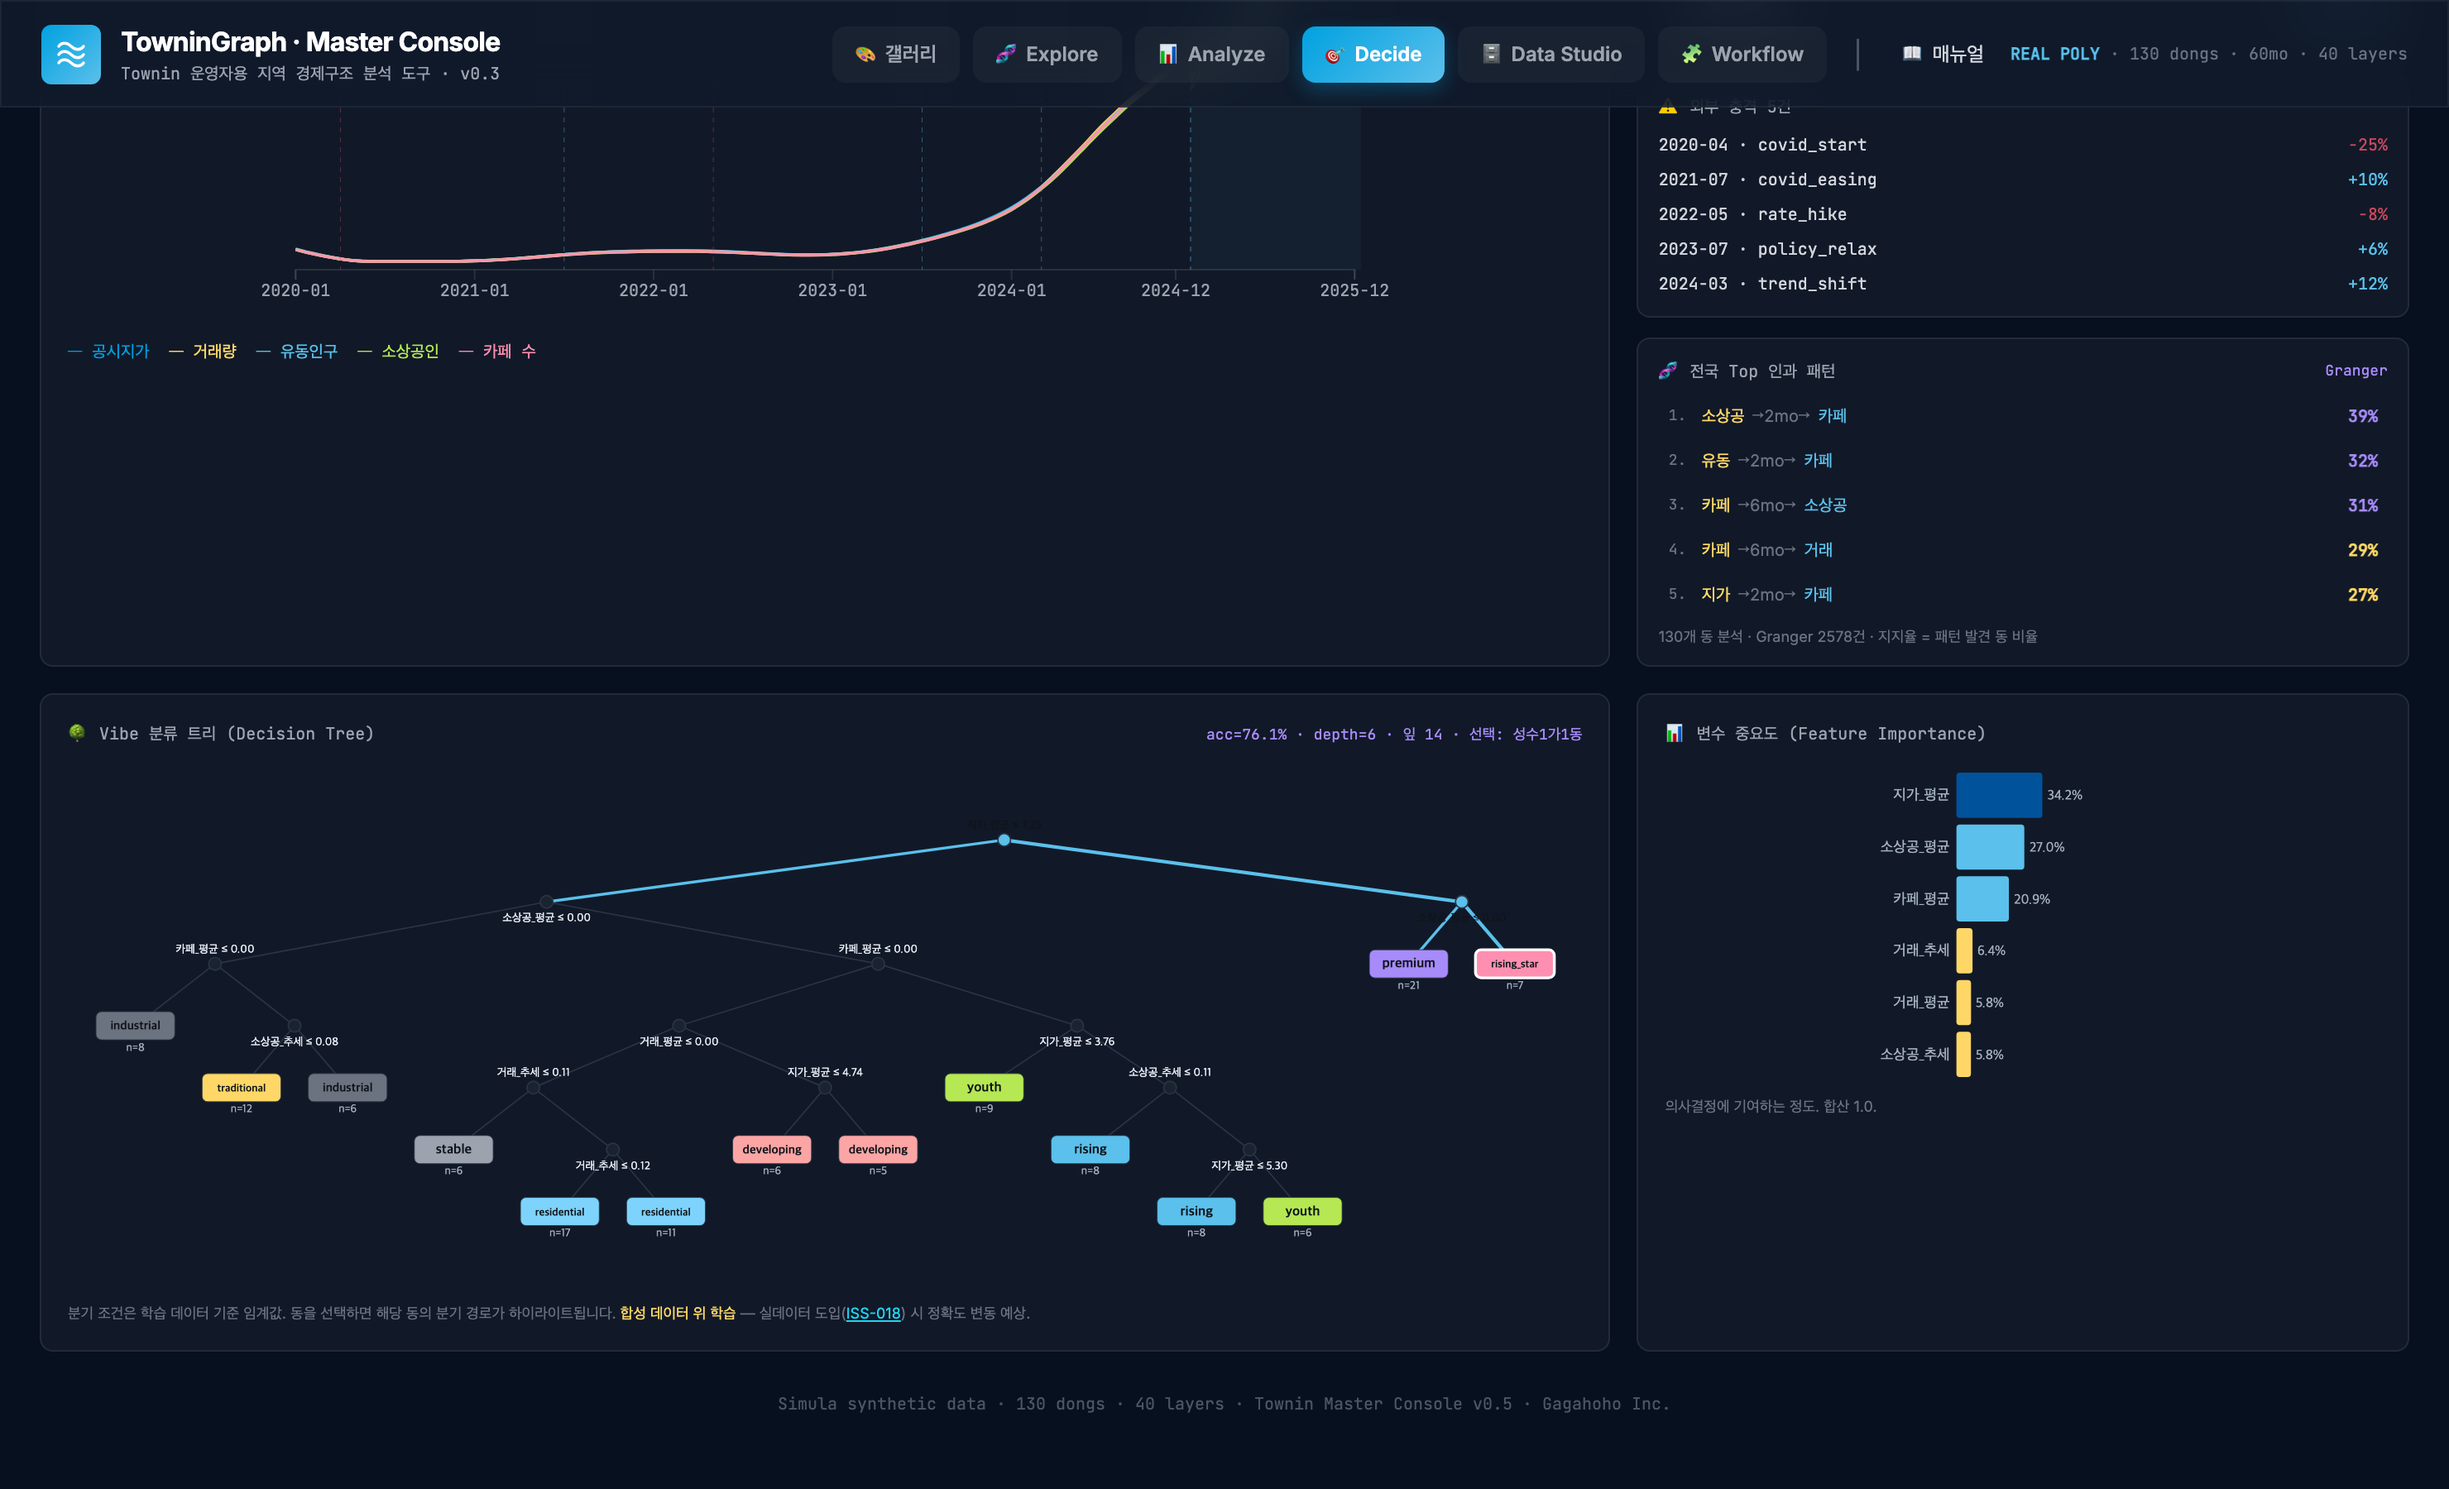
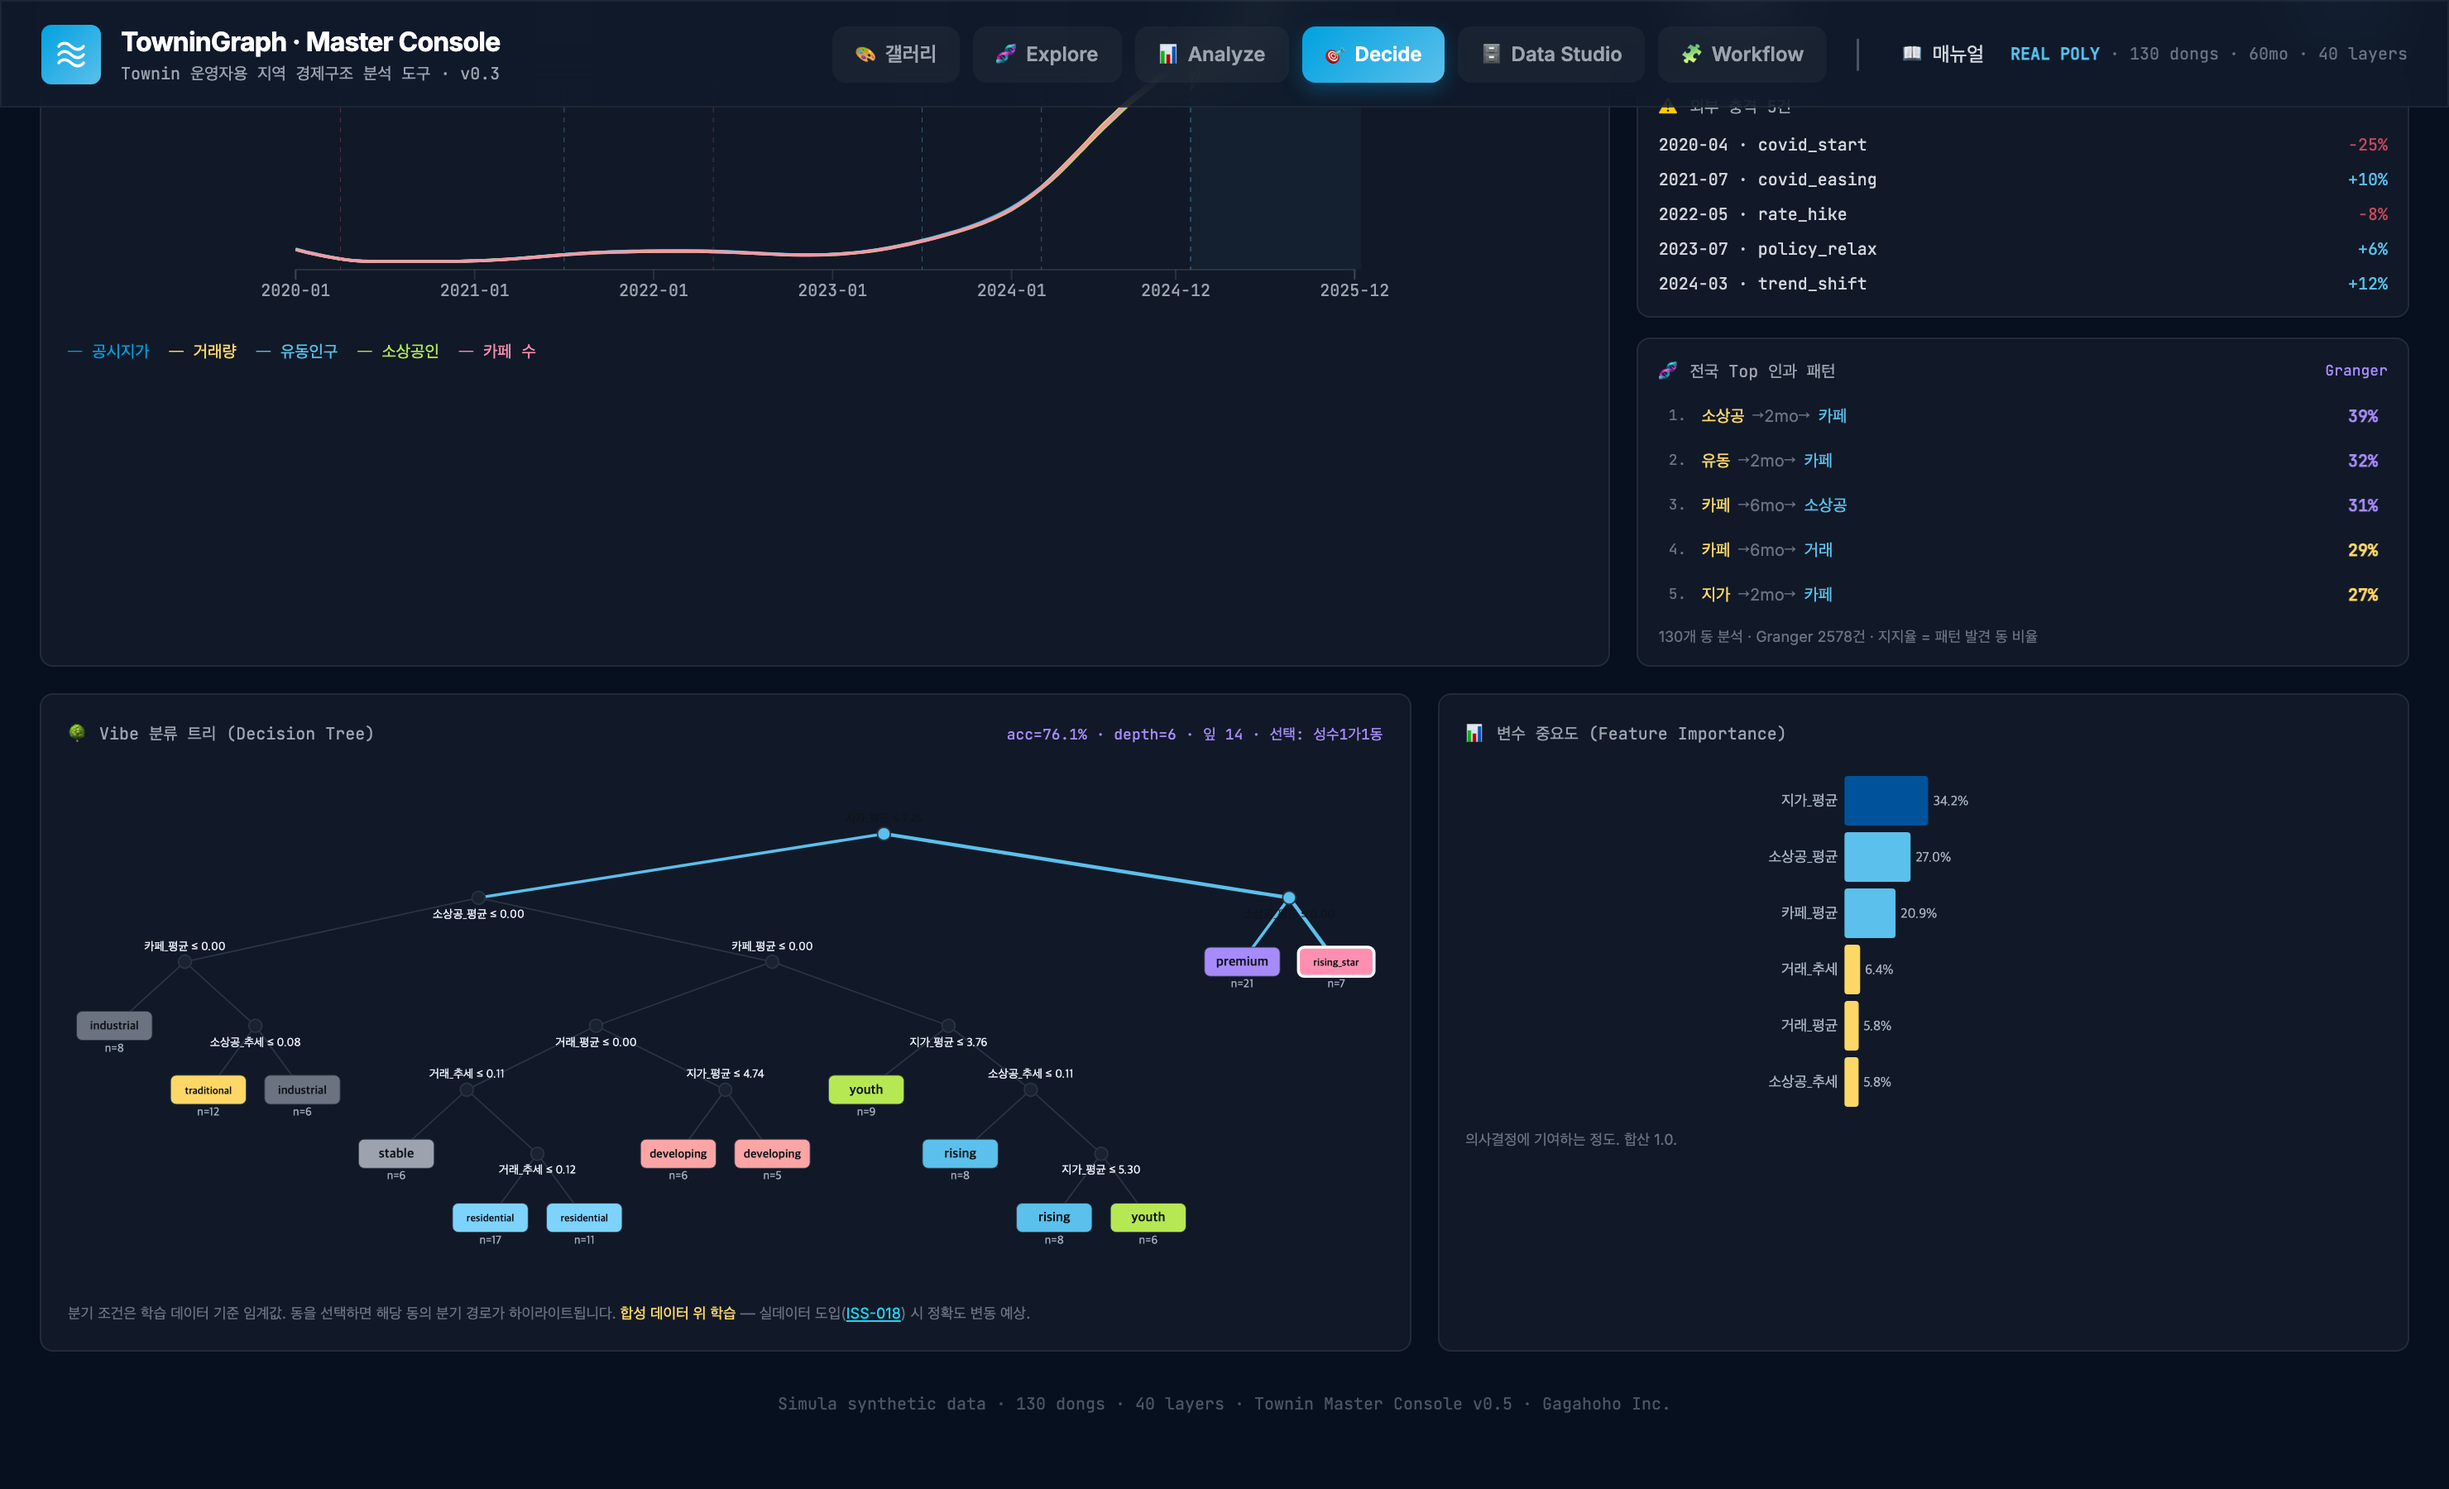
fix(decide): 트리 좌측 블록 폭 절감 — 가독성 향상 (사용자 보고)
사용자 스크린샷 보고: col-span-8(트리)이 넓어 노드들이 흩어져 보임
- index.html: 트리 col-span 8→7, 변수중요도 5→4 + viewBox 280×220 (한글 여유)
- app.js _treeLayout: LEAF_W 56→52, LEAF_GAP 14→8, padX 48→32
- 잎 폰트 임계값: 11자 7px / 8자 8px / 짧은 9px (LEAF_W 52에 맞춤)
- 변수중요도 padL 80→92, padR 8→40 (% 라벨 잘림 방지)
- overflow-x:auto + preserveAspectRatio="xMidYMid meet" — 큰 트리도 안전

ISS-021 (P3 DESIGN_FIX, user_reported) → COMPLETED
verify_all 9/9 유지

diff --git a/app.js b/app.js
@@ -1438,9 +1438,9 @@ function renderDecisionTree() {
   const maxDepth = Math.max(...allNodes.map(n=>n.depth));
   const leafNodes = allNodes.filter(n=>n.leaf);
   const nLeaves = leafNodes.length;
-  // 잎 박스 폭 보장: 최소 75px/잎 → viewBox 동적 확장 (겹침 방지)
-  const LEAF_W = 56, LEAF_GAP = 14;
-  const padX = 48, padY = 28;
+  // 잎 박스 폭 보장: 최소 60px/잎 → viewBox 동적 확장 (겹침 방지) + 좌측 블록 폭 절감
+  const LEAF_W = 52, LEAF_GAP = 8;
+  const padX = 32, padY = 28;
   const W = Math.max(720, padX*2 + nLeaves * (LEAF_W + LEAF_GAP));
   const H = 320;
   const innerW = W - padX*2, innerH = H - padY*2;
@@ -1474,7 +1474,7 @@ function renderDecisionTree() {
       const color = VIBE_COLOR[n.class] || '#9CA3AF';
       // 클래스명 길이로 폰트 사이즈 자동 조정 (rising_star 11자도 LEAF_W 56px에 들어가도록)
       const labelLen = String(n.class || '').length;
-      const fz = labelLen >= 11 ? 7.5 : labelLen >= 8 ? 8.5 : 9.5;
+      const fz = labelLen >= 11 ? 7 : labelLen >= 8 ? 8 : 9;
       s += `<rect x="${n.px - LEAF_W/2}" y="${n.py-10}" width="${LEAF_W}" height="20" rx="4" fill="${color}" stroke="${isOn?'#fff':'#2A3445'}" stroke-width="${isOn?2:0.5}"/>`;
       s += `<text x="${n.px}" y="${n.py+3}" text-anchor="middle" fill="#0F1419" font-size="${fz}" font-family="ui-sans-serif" font-weight="700">${n.class}</text>`;
       s += `<text x="${n.px}" y="${n.py+18}" text-anchor="middle" fill="#A4B0C0" font-size="8" font-family="ui-monospace">n=${n.samples}</text>`;
@@ -1504,8 +1504,8 @@ function renderFeatureImportance() {
     return;
   }
   const items = TREE_MODEL.feature_importance.filter(f => f.importance > 0).slice(0, 8);
-  const W = 240, H = 200;
-  const padL = 80, padR = 8, padT = 6, padB = 6;
+  const W = 280, H = 220;
+  const padL = 92, padR = 40, padT = 8, padB = 8;
   const innerW = W - padL - padR;
   const rowH = (H - padT - padB) / Math.max(1, items.length);
   let s = '';

diff --git a/index.html b/index.html
@@ -501,17 +501,17 @@
 
     <!-- [DECISION_TREE-001] 분류 트리 + 변수 중요도 -->
     <div class="grid grid-cols-12 gap-4 mt-4">
-      <div class="col-span-8 glass-light rounded-lg p-4">
+      <div class="col-span-7 glass-light rounded-lg p-4" style="overflow-x:auto">
         <div class="flex items-baseline justify-between mb-2">
           <div class="text-[10px] mono text-gray-400">🌳 Vibe 분류 트리 (Decision Tree)</div>
           <div class="text-[9px] mono" id="d-tree-meta" style="color:#A78BFA">—</div>
         </div>
-        <svg id="d-tree-canvas" width="100%" height="320" viewBox="0 0 720 320"></svg>
+        <svg id="d-tree-canvas" width="100%" height="320" viewBox="0 0 720 320" preserveAspectRatio="xMidYMid meet"></svg>
         <div class="text-[9px] text-gray-500 mt-2 leading-snug">분기 조건은 학습 데이터 기준 임계값. 동을 선택하면 해당 동의 분기 경로가 하이라이트됩니다. <span style="color:#FED766">합성 데이터 위 학습</span> — 실데이터 도입(<a href="docs/data-integrity-diagnosis.md" target="_blank" class="text-cyan-400 underline">ISS-018</a>) 시 정확도 변동 예상.</div>
       </div>
-      <div class="col-span-4 glass-light rounded-lg p-4">
+      <div class="col-span-5 glass-light rounded-lg p-4">
         <div class="text-[10px] mono text-gray-400 mb-2">📊 변수 중요도 (Feature Importance)</div>
-        <svg id="d-tree-importance" width="100%" height="200" viewBox="0 0 240 200"></svg>
+        <svg id="d-tree-importance" width="100%" height="220" viewBox="0 0 280 220"></svg>
         <div class="text-[9px] text-gray-500 mt-1 leading-snug">의사결정에 기여하는 정도. 합산 1.0.</div>
       </div>
     </div>
